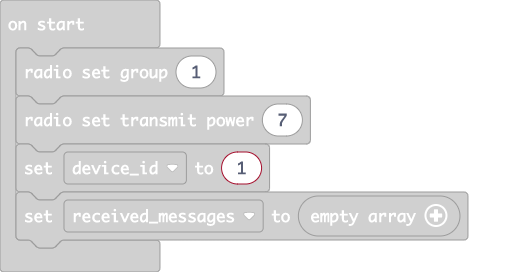
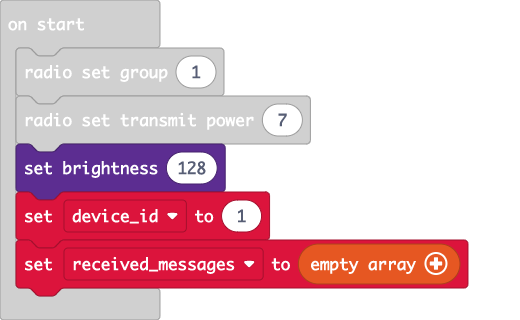
Reducing LED brightness to increase battery life

diff --git a/main.ts b/main.ts
@@ -48,6 +48,7 @@ let received_messages: string[] = []
 let device_id = 0
 radio.setGroup(1)
 radio.setTransmitPower(7)
+led.setBrightness(128)
 device_id = 1
 received_messages = []
 basic.forever(function () {
